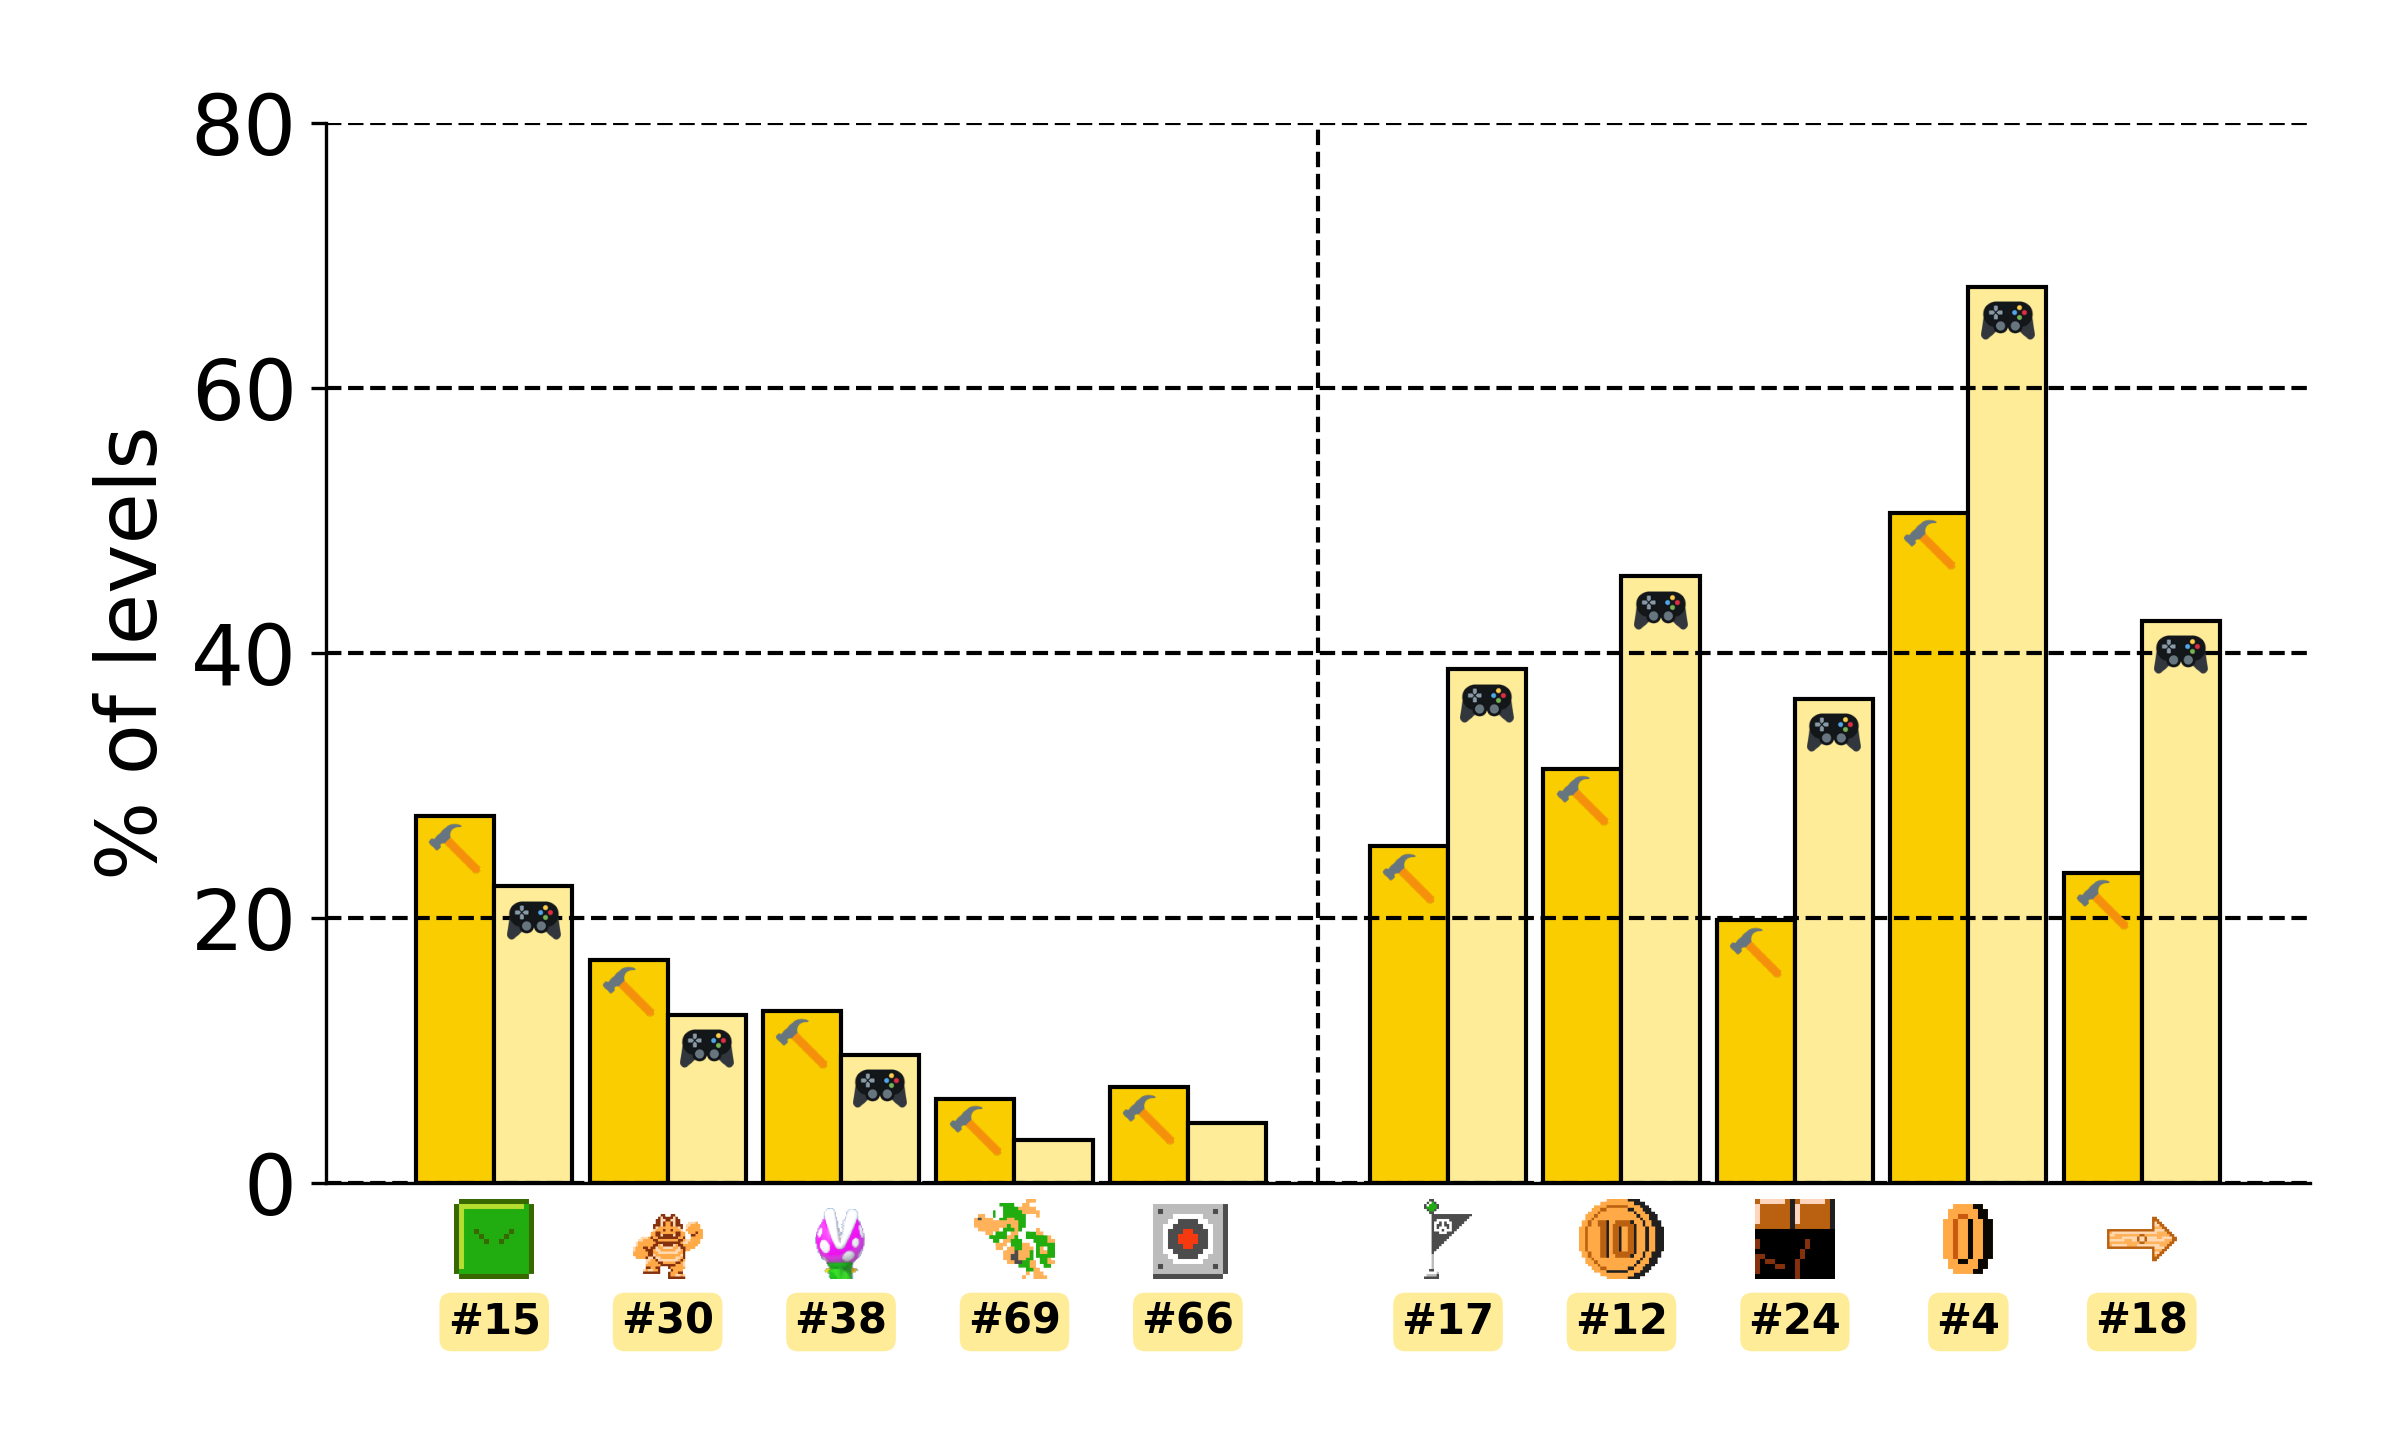
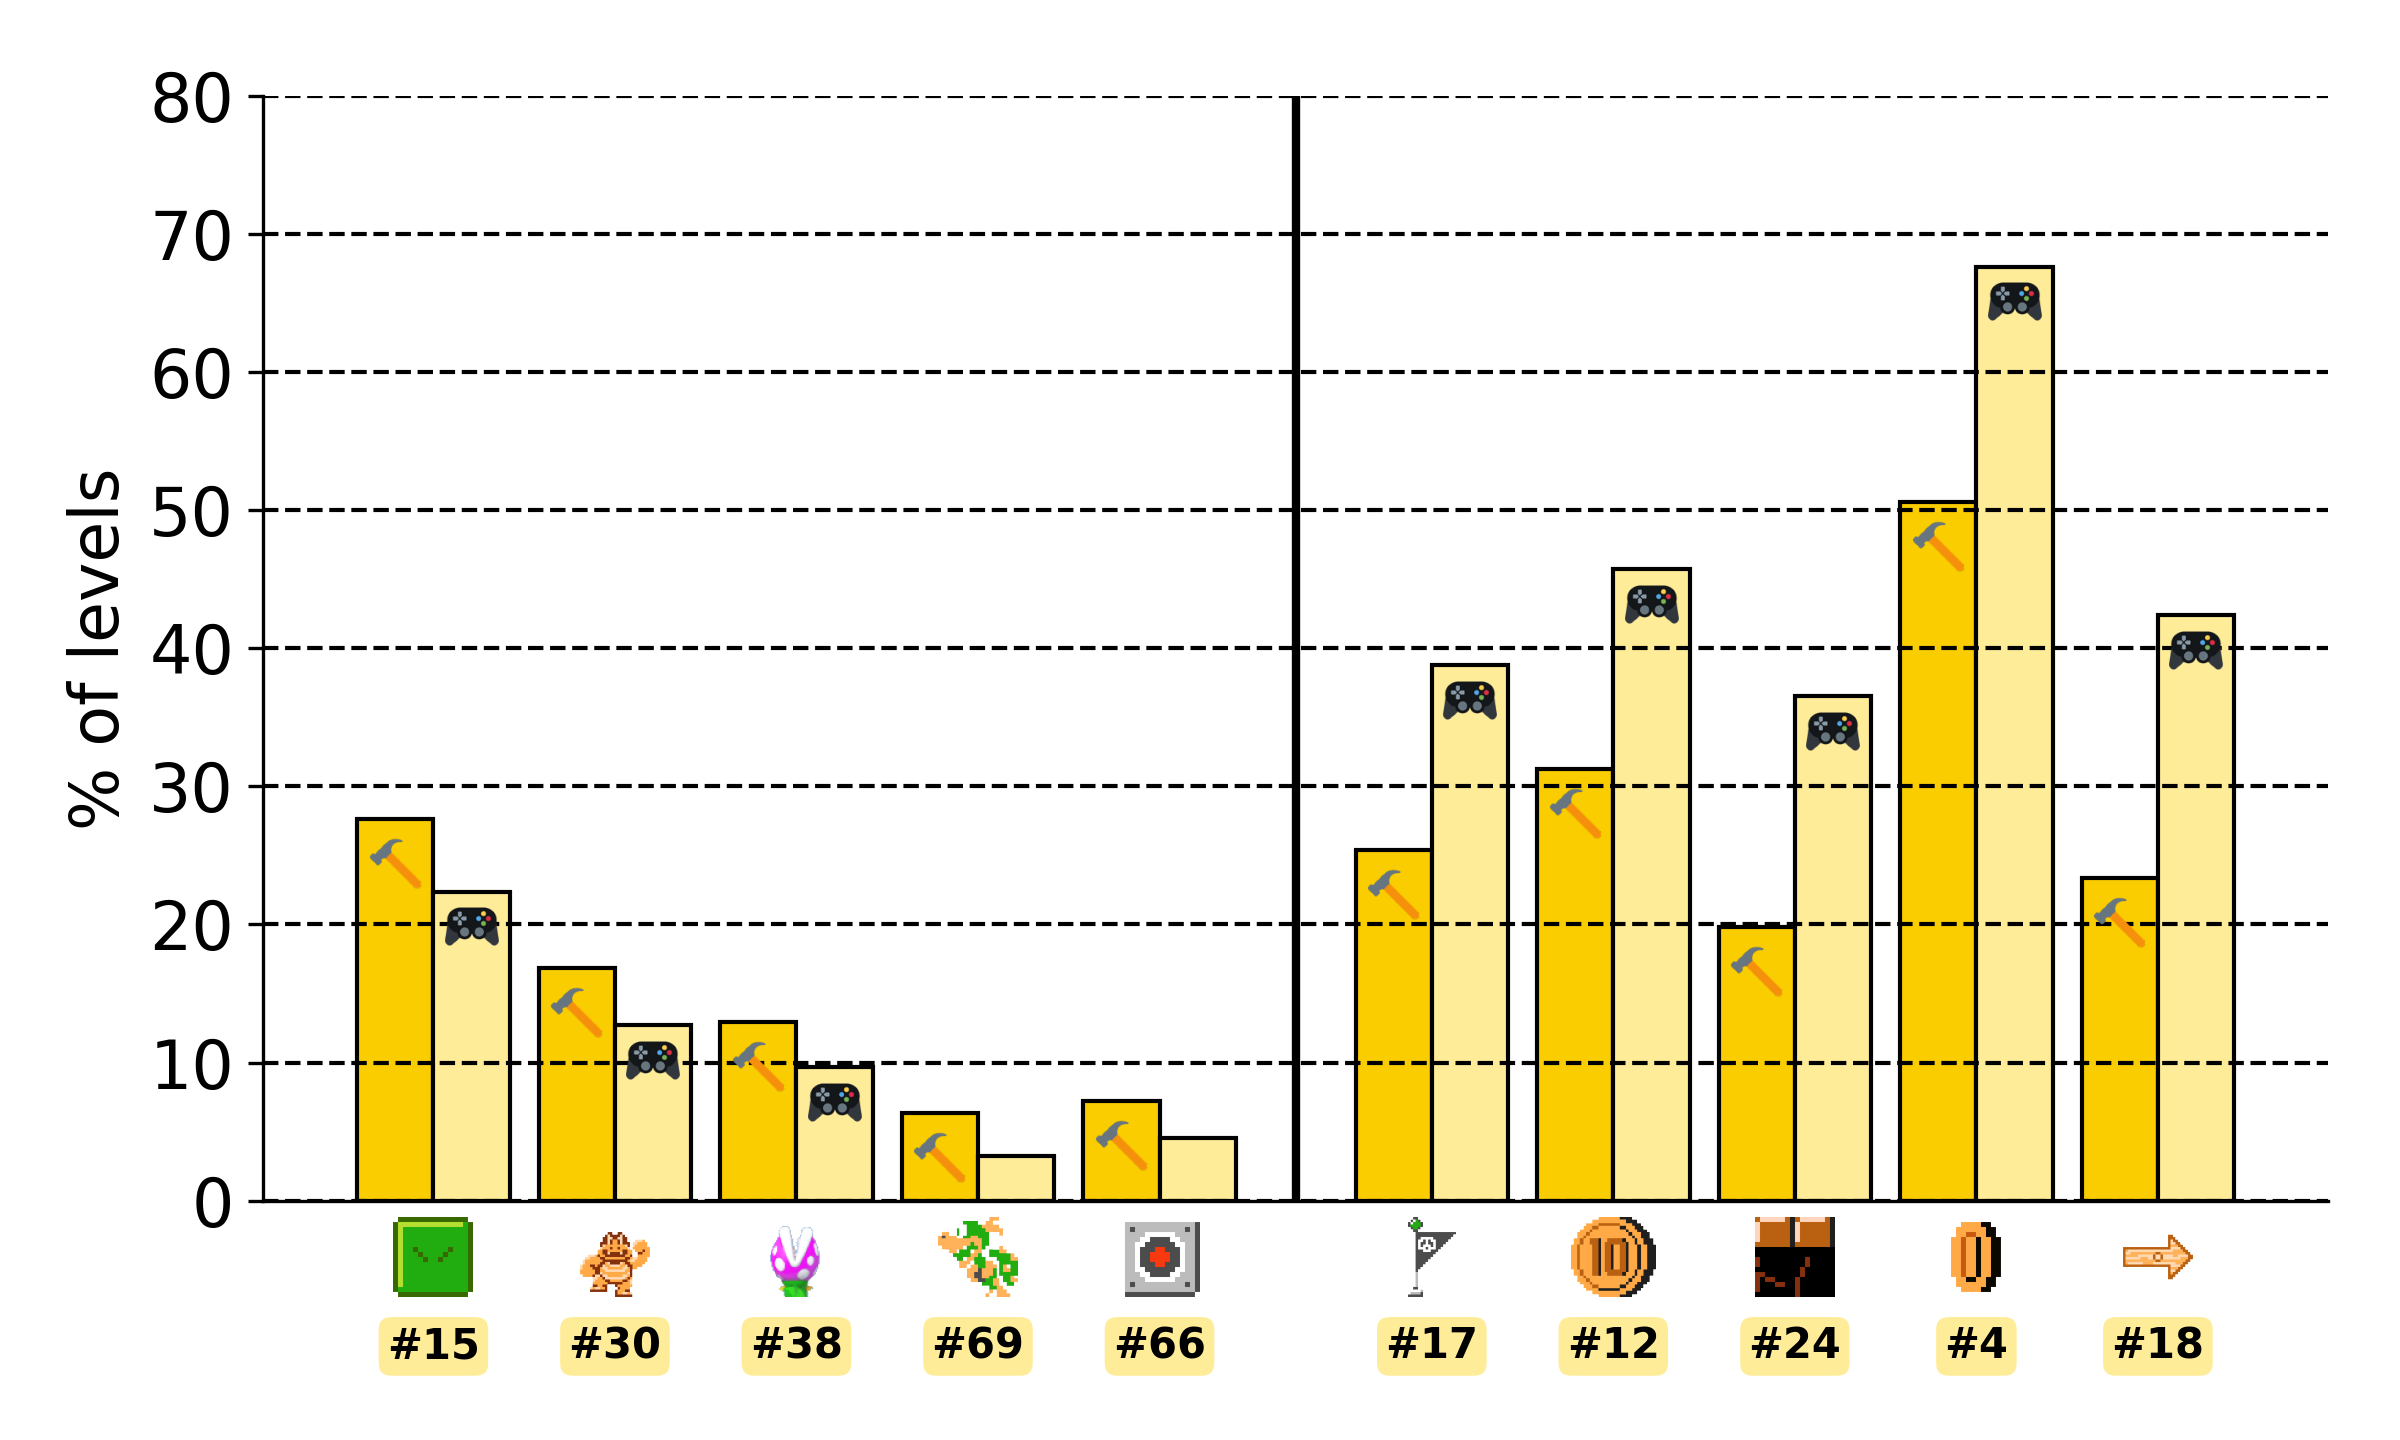
small plotting changes, readme

Changed region(s): [[0.0312, 0.0625, 0.9688, 0.9688], [0.0625, 0.125, 0.1562, 0.1875], [0.0625, 0.0312, 0.125, 0.125]]

diff --git a/visualization_top10_both.py b/visualization_top10_both.py
@@ -6,7 +6,7 @@ import pickle
 import PIL
 import numpy as np
 
-plt.rcParams["font.size"] = 20
+plt.rcParams["font.size"] = 16
 
 # Load data
 counts = pickle.load(open("object_count_data/obj_counts_0_81920", "rb"))
@@ -27,7 +27,7 @@ ordered_keys = sorted(disparities, key=disparities.get, reverse=True)
 # Take top and bottom 5
 ordered_keys = [*ordered_keys[:5], *ordered_keys[-5:]]
 
-width = 0.45
+width = 0.42
 group_gap = 0.5
 ymax = 80
 
@@ -46,7 +46,7 @@ for i in range(10):
     oi = OffsetImage(img, zoom=0.2)
     oi.image.axes = ax
     ab = AnnotationBbox(oi,
-                        (pos - width / 2, counts[key] / total_levels * 100 - 3 * (ymax/100)),
+                        (pos - width / 2, counts[key] / total_levels * 100 - 4 * (ymax/100)),
                         frameon=False
                         )
     ax.add_artist(ab)
@@ -68,7 +68,7 @@ ax.spines["right"].set_visible(False)
 ax.spines["top"].set_visible(False)
 ax.grid(visible=True, axis="y", ls="--", lw=1, c="black")
 ax.set_ylabel(r"% of levels")
-ax.axvline(4.75, 0, ymax, ls="--", lw=1, c="black")
+ax.axvline(4.75, 0, ymax, ls="-", lw=2, c="black")
 ax.set_ylim(0, ymax)
 plt.tight_layout()
 

diff --git a/README.md b/README.md
@@ -8,7 +8,6 @@ Dependencies:
  - `matplotlib 3.9.2`
  - `pandas 2.2.3`
  - `pillow 10.3.0`
- - `pickle 4.0`
  
 Additional dependencies to reproduce data:
  - `kaitaistruct` and `mm2_level` from the [dataset repository](https://huggingface.co/datasets/TheGreatRambler/mm2_level)
